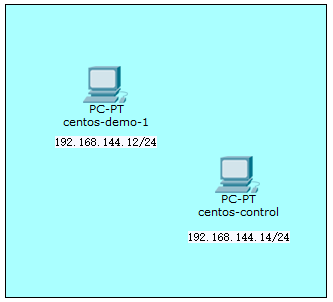
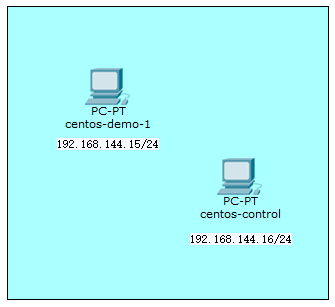
添加ssh-copy-id(playbook)自动配置免密登录

diff --git a/Ansible复现.md b/Ansible复现.md
@@ -8,45 +8,52 @@
 
  ![centos-lan.png](images/centos-lan.png)
 
+| name           | ip                | user/root pass |
+| -------------- | ----------------- | -------------- |
+| centos-demo-1  | 192.168.144.17/24 | 123456         |
+| centos-control | 192.168.144.18/24 | 666            |
+
+
+
 ### 前提的前提
 
 - Ansible版本 2.12+
 - 控制节点：Python 3.8+
 - 被管理节点：Python 2 (version 2.6 or later) or Python 3 (version 3.5 or later)
 - 选用该被管理云中的机器作为控制节点更合适
-- centos配置网卡
+
+#### centos 7.0
 
 ```bash
-# `ip a`查看网卡名
-$ vi /etc/sysconfig/network-scripts/ifcfg-enp0s8
+# 添加sudo
+su root
+chmod u+w /etc/sudoers
+vi /etc/sudoers
+# root ALL=(ALL)ALL
+# `username` ALL=(ALL)ALL
 
+# `ip a`查看网卡名
+sudo vi /etc/sysconfig/network-scripts/ifcfg-enp0s8
 # 配置信息修改
 # BOOTPROTO=static/dhcp/none
 # noboot=no => yes
+sudo systemctl restart network
 
-$ systemctl restart network
+# 配置tsinghua镜像源（选）
+# 先备份 /etc/yum.repos.d/ 内的文件（CentOS 7 及之前为 CentOS-Base.repo，CentOS 8 为CentOS-Linux-*.repo）
+# 文件替换下面的'*'
+sudo sed -e 's|^mirrorlist=|#mirrorlist=|g' \
+         -e 's|^#baseurl=http://mirror.centos.org|baseurl=https://mirrors.tuna.tsinghua.edu.cn|g' \
+         -i.bak \
+         /etc/yum.repos.d/CentOS-*.repo
+sudo yum makecache
 ```
 
-- ubuntu安装ssh
 
-```bash
-#!/bin/bash
 
-# 修改root密码
-sudo passwd root
-> ubuntu-control
+#### debian 11.1
 
-# 安装配置ssh
-sudo apt update && sudo apt install openssh-sftp-server ncurses-term ssh-import-id openssh-client
-sudo vi /etc/ssh/ssh_config
-# 去注释 PasswordAuthentication yes
-sudo vi /etc/ssh/sshd_config
-# 去注释 PermitRootLogin yes
-sudo /etc/init.d/ssh restart
-
-```
-
-- debian配置网卡 <https://www.debian.org/doc/manuals/debian-handbook/sect.network-config.zh-cn.html>
+> <https://www.debian.org/doc/manuals/debian-handbook/sect.network-config.zh-cn.html>
 
 ```bash
 # 默认无sudo
@@ -65,38 +72,84 @@ vi /etc/network/interfaces
 
 
 
+#### ubuntu 20.04.3
+
+```bash
+# 修改root密码
+sudo passwd root
+> ubuntu-control
+
+# 安装配置ssh
+sudo apt update && sudo apt install openssh-sftp-server ncurses-term ssh-import-id openssh-client
+sudo vi /etc/ssh/ssh_config
+# 去注释 PasswordAuthentication yes
+sudo vi /etc/ssh/sshd_config
+# 去注释 PermitRootLogin yes
+sudo /etc/init.d/ssh restart
+```
+
+
+
 ### 控制节点的先决条件
 
 #### centos 7.0
 
 ```bash
-...
+# 安装python3.8和pip
+sudo yum update && sudo yum install epel-release
+sudo yum -y groupinstall "Development tools"
+sudo yum -y install zlib-devel bzip2-devel openssl-devel ncurses-devel sqlite-devel readline-devel tk-devel gdbm-devel db4-devel libpcap-devel xz-devel
+sudo yum install libffi-devel -y
+
+sudo yum install wget
+wget https://www.python.org/ftp/python/3.9.9/Python-3.9.9.tgz
+# wget http://npm.taobao.org/mirrors/python/3.9.9/Python-3.9.9.tgz
+tar zxvf Python-3.9.9.tgz
+
+mkdir /usr/local/python3 #创建编译安装目录
+cd Python-3.9.9
+./configure --prefix=/usr/local/python3
+make && sudo make install
+
+# 查看当前python软连接
+ll /usr/bin/ | grep python
+rm -rf /usr/bin/python
+#添加python3的软链接 
+ln -s /usr/local/python3/bin/python3 /usr/bin/python
+rm -rf /usr/bin/pip
+#添加 pip3 的软链接
+ln -s /usr/local/python3/bin/pip3 /usr/bin/pip
+
+# 更改yum默认配置
+# ↓ #! /usr/bin/python => #! /usr/bin/python2 ↓
+vi /usr/bin/yum 
+vi /usr/libexec/urlgrabber-ext-down 
+vi /usr/bin/yum-config-manager
+# 可能没有
+
+# 安装连接模块
+# 全局安装：`sudo ...`,除非完全了解修改系统上全局文件的含义，否则建议with `--user` 参数
+python -m pip install --user paramiko
+# pip install --user -i https://pypi.tuna.tsinghua.edu.cn/simple paramiko
+sudo yum install sshpass
 ```
 
 #### ubuntu 20.04.3
 
 ```bash
-#!/bin/bash
-
-# 安装pip（确保是最新版）
-sudo apt update && sudo apt install python3-pip -y
-
-# 安装连接模块
-# 全局安装：`sudo ...`
-# 除非完全了解修改系统上全局文件的含义，否则建议with `--user` 参数
-pip install paramiko --user 
+$ sudo apt update && sudo apt install python3-pip -y
+$ pip install paramiko --user 
 ```
 
 
 
 ### 控制节点安装Ansible
 
-#### 在RHEL、CentOS或Fedora上安装Ansible
+#### RHEL、CentOS或Fedora
 
 在 CentOS 上：
 
 ```bash
-$ sudo yum install epel-release
 $ sudo yum install ansible
 ```
 
@@ -114,7 +167,7 @@ $ sudo yum install ansible
 
 
 
-#### 在 Ubuntu 上安装 Ansible
+#### Ubuntu
 
 Ubuntu 构建在 [PPA](https://launchpad.net/~ansible/+archive/ubuntu/ansible) 中可用（官方推荐）。
 
@@ -131,7 +184,7 @@ $ sudo apt install ansible
 
 
 
-#### 在Debian上安装Ansible
+#### Debian
 
 Debian 用户可以使用与 Ubuntu PPA 相同的源代码（使用下表）。
 
@@ -166,7 +219,25 @@ $ sudo apt install ansible
 
 
 
-## Ansible拆解
+#### pip（不建议）
+
+```bash
+$ python -m pip install --user ansible
+$ python -m pip install --user paramiko
+```
+
+
+
+### 补充
+
+```bash
+export ANSIBLE_HOST_KEY_CHECKING=False
+
+```
+
+
+
+## Ansible手册
 
 ### 配置文件
 
@@ -180,4 +251,70 @@ Changes can be made and used in a configuration file which will be searched for 
 Ansible will process the above list and use the first file found, all others are ignored.
 
 
+
+### Jinja2
+
+#### 默认值
+
+```
+{{ some_variable | default(5) }}
+```
+
+
+
+## 实验
+
+### ssh-copy-id配置免密登录
+
+1. 直接配置
+
+```bash
+$ pwd
+> ~/.ssh
+$ ssh-keygen -t rsa
+
+$ ssh-copy-id -i $HOME/.ssh/id_rsa.pub $(remotename)@$(ip) -p 22
+
+# ansible -m ping 测试
+$ echo $(ip) > /etc/ansible/hosts
+$ ansible all -m ping
+
+# 登录检查
+$ ssh $(remotename)@$(ip)
+```
+
+2. 通过playbook自动配置
+
+```yml
+--- # hosts.yml
+all:
+  hosts:
+    centos-demo-1:
+      ansible_user: centos-demo-1
+      ansible_host: 192.168.144.17
+      ansible_port: 22
+      ansible_password: "{{ password }}" # 需要另外配置var文件，定义password变量和值
+      ansible_ssh_private_key_file: /home/centos-control/.ssh/id_rsa
+      ansible_become: true
+      ansible_become_user: root
+      ansible_become_method: sudo
+      ansible_become_password: "{{ password }}"
+...
+```
+
+```yml
+--- # ssh-copy-id.yml
+- hosts: all # 对应`hosts`文件中定义的`主机组`名
+  gather_facts: no # 如果不需要用到远程主机上的环境变量、运行时参数等，则可以跳过 gather_facts 阶段
+  tasks:
+  - name: deploy local rsa pub to remote host # 一句话描述任务
+    authorized_key: # 任务使用到的 Ansible Module 名称，以下用缩进表示使用一系列参数传递给当前模块
+      user: centos-demo-1 # 要配置root免密登录，就修改为root
+      state: present
+      key: "{{ lookup('file', lookup('env','HOME') + '/.ssh/id_rsa.pub') }}"
+    become: true
+    become_user: root
+    become_method: sudo # 提权方法，例如Debian 9最小化安装方式等，默认无sudo，可改用su
+...
+```
 
